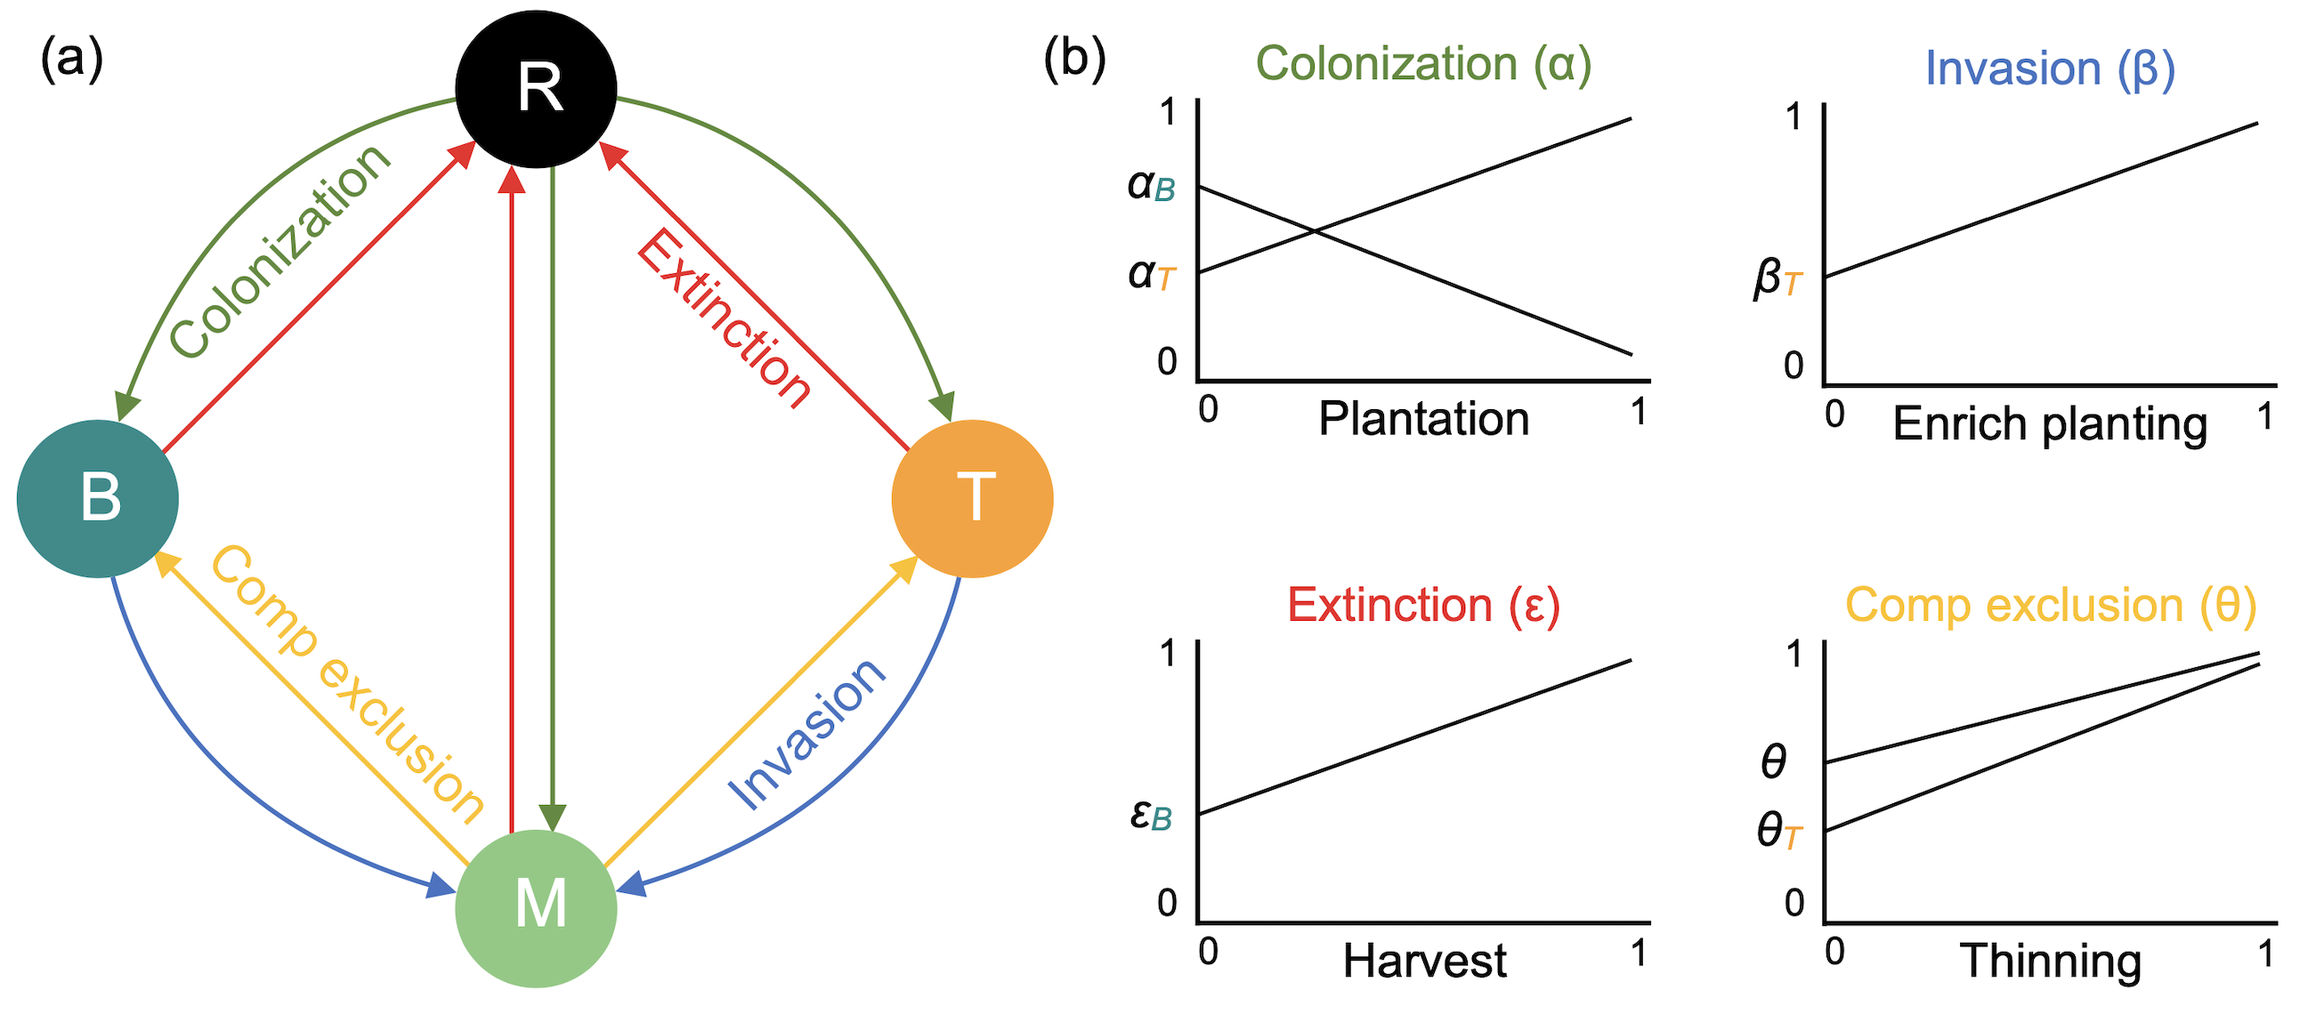
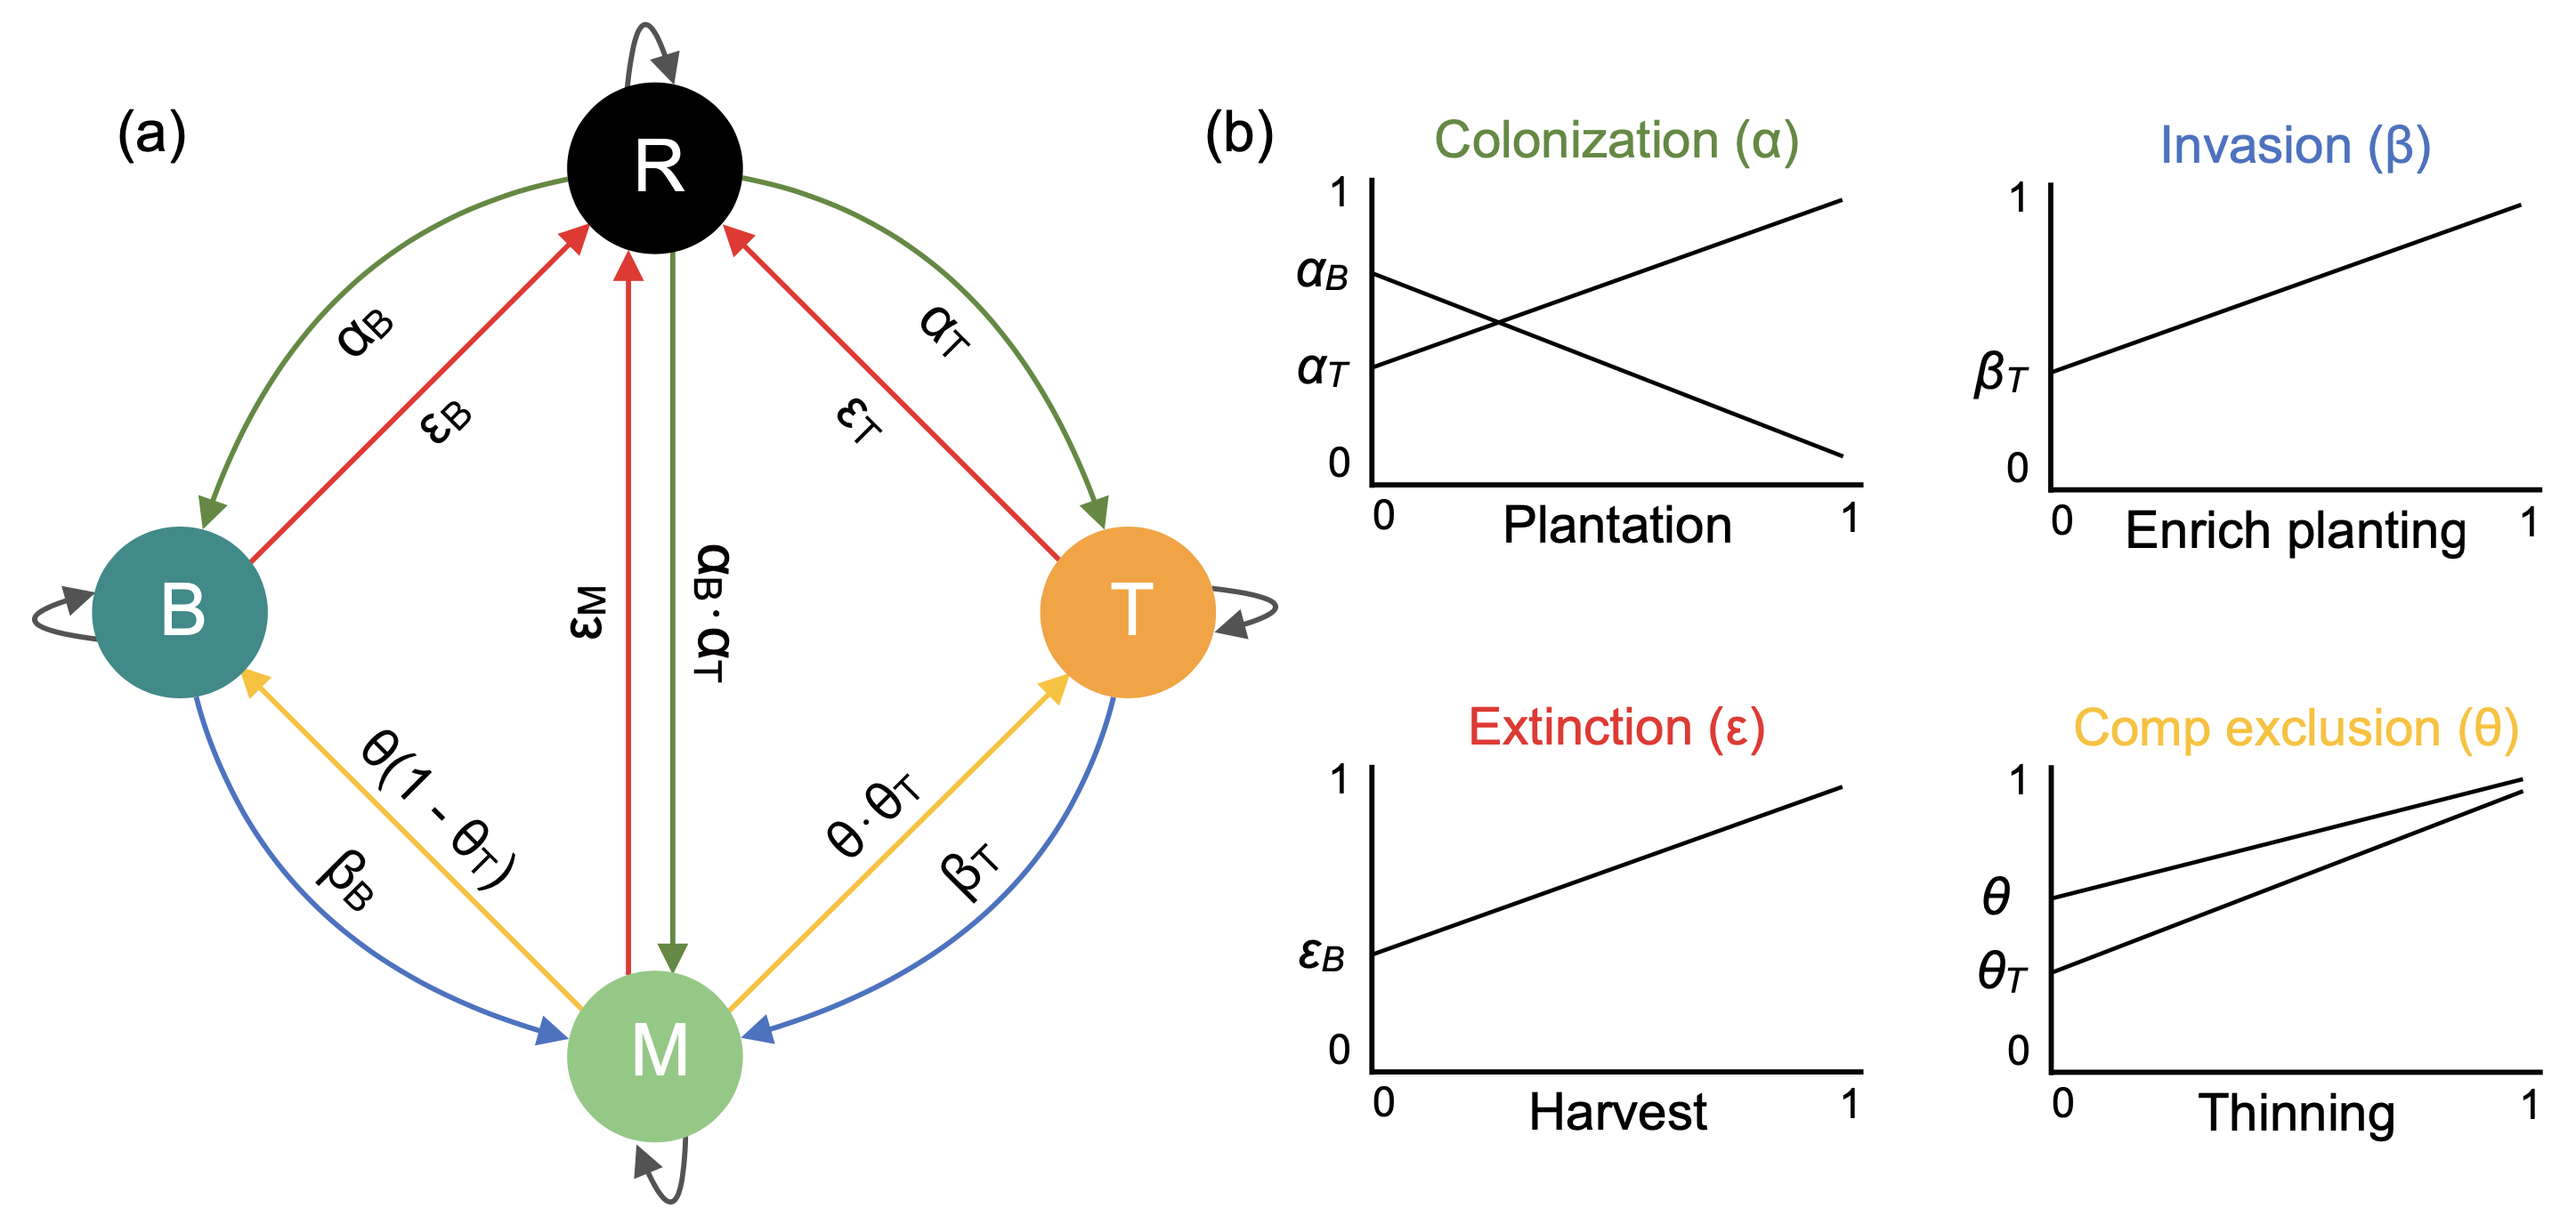
update model eq fig

diff --git a/manuscript/manuscript.md b/manuscript/manuscript.md
@@ -106,7 +106,7 @@ Therefore, we stress our study as a theoretical investigation to guide future mo
 In the next section, we detail the ecological assumptions and mathematical formulation for each management practice implemented in the model. 
 Finally, with the extended model equations and estimated parameters, we develop our two simulation approaches to test the effect of forest management on transient dynamics and forest range shifts.
 
-![(a) Schema of the State and Transition Model adapted from @Vissault2020. Directional arrows describe the possible transitions between the four forest states: (R)egeneration, (B)oreal, (T)emperate, and (M)ixedwood. The color represents the ecological processes. The panel (b) summarises the effect of increasing the intensity of forest management in each of the four ecological processes. The values of each of the 9 specific (process x state) parameters are shown in Figure S7.](manuscript/img/model_equation_fm.png){#fig:model width=100%}
+![(a) Schema of the State and Transition Model adapted from @Vissault2020. Directional arrows describe the colonization ($\alpha$), extinction ($\varepsilon$), invasion ($\beta$), and competitive exclusion ($\theta$) processes driving the transition between the four forest states: (R)egeneration, (B)oreal, (T)emperate, and (M)ixedwood. The panel (b) summarises the effect of increasing the intensity of forest management in each of the four ecological processes. For instance, increasing plantation intensity will increase the rate of transition from R to T and consequently descrease the rate of change from R to B and from R to M. The values of each of the 9 specific (process x state) parameters are shown in Figure S7.](manuscript/img/model_equation_fm.png){#fig:model width=100%}
 
 ## Adapted forest management: reducing the gap between potential and actual forest distribution
 
